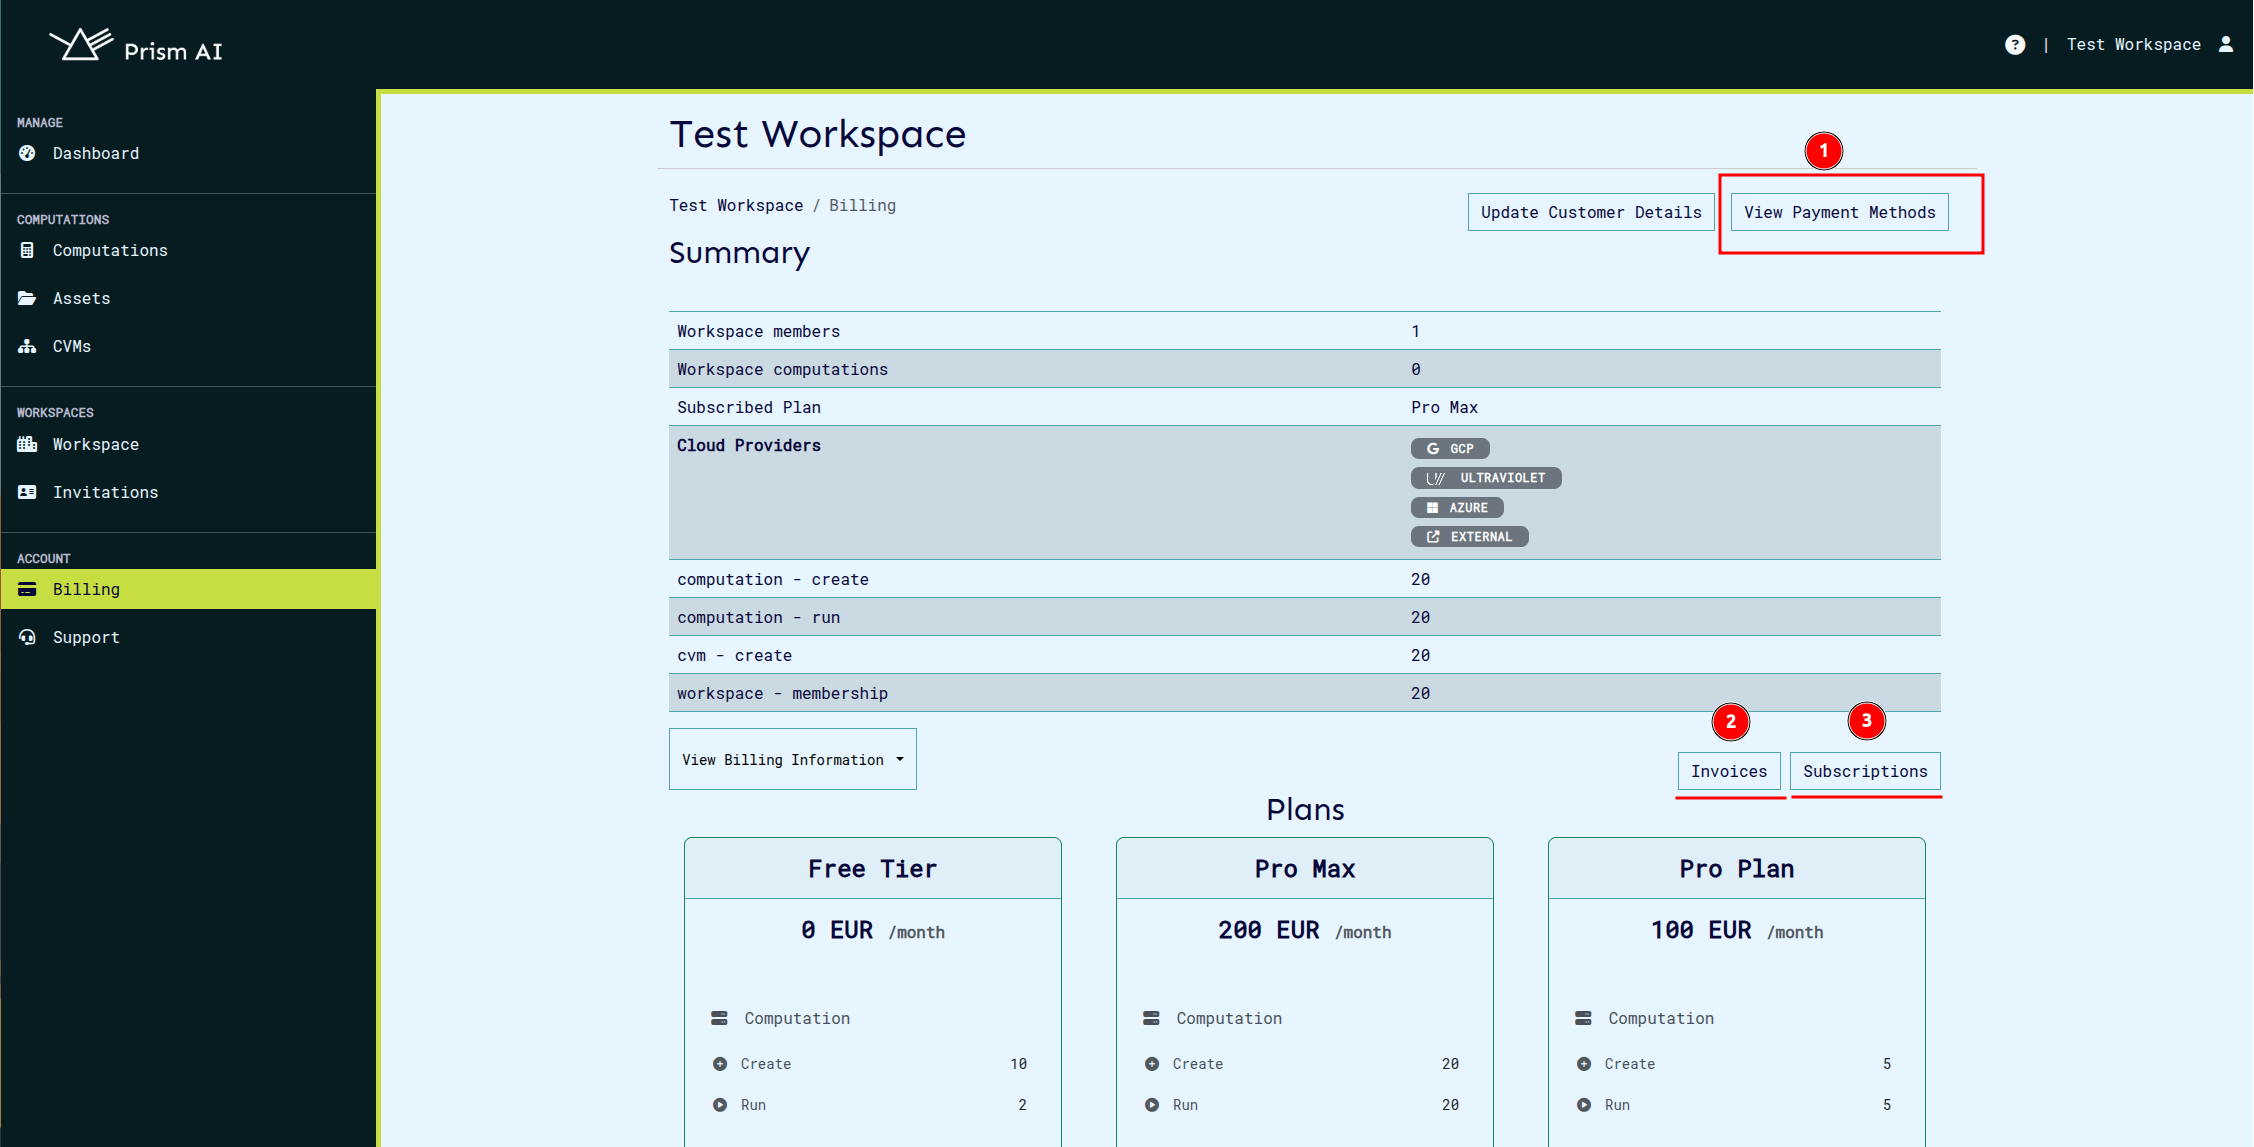
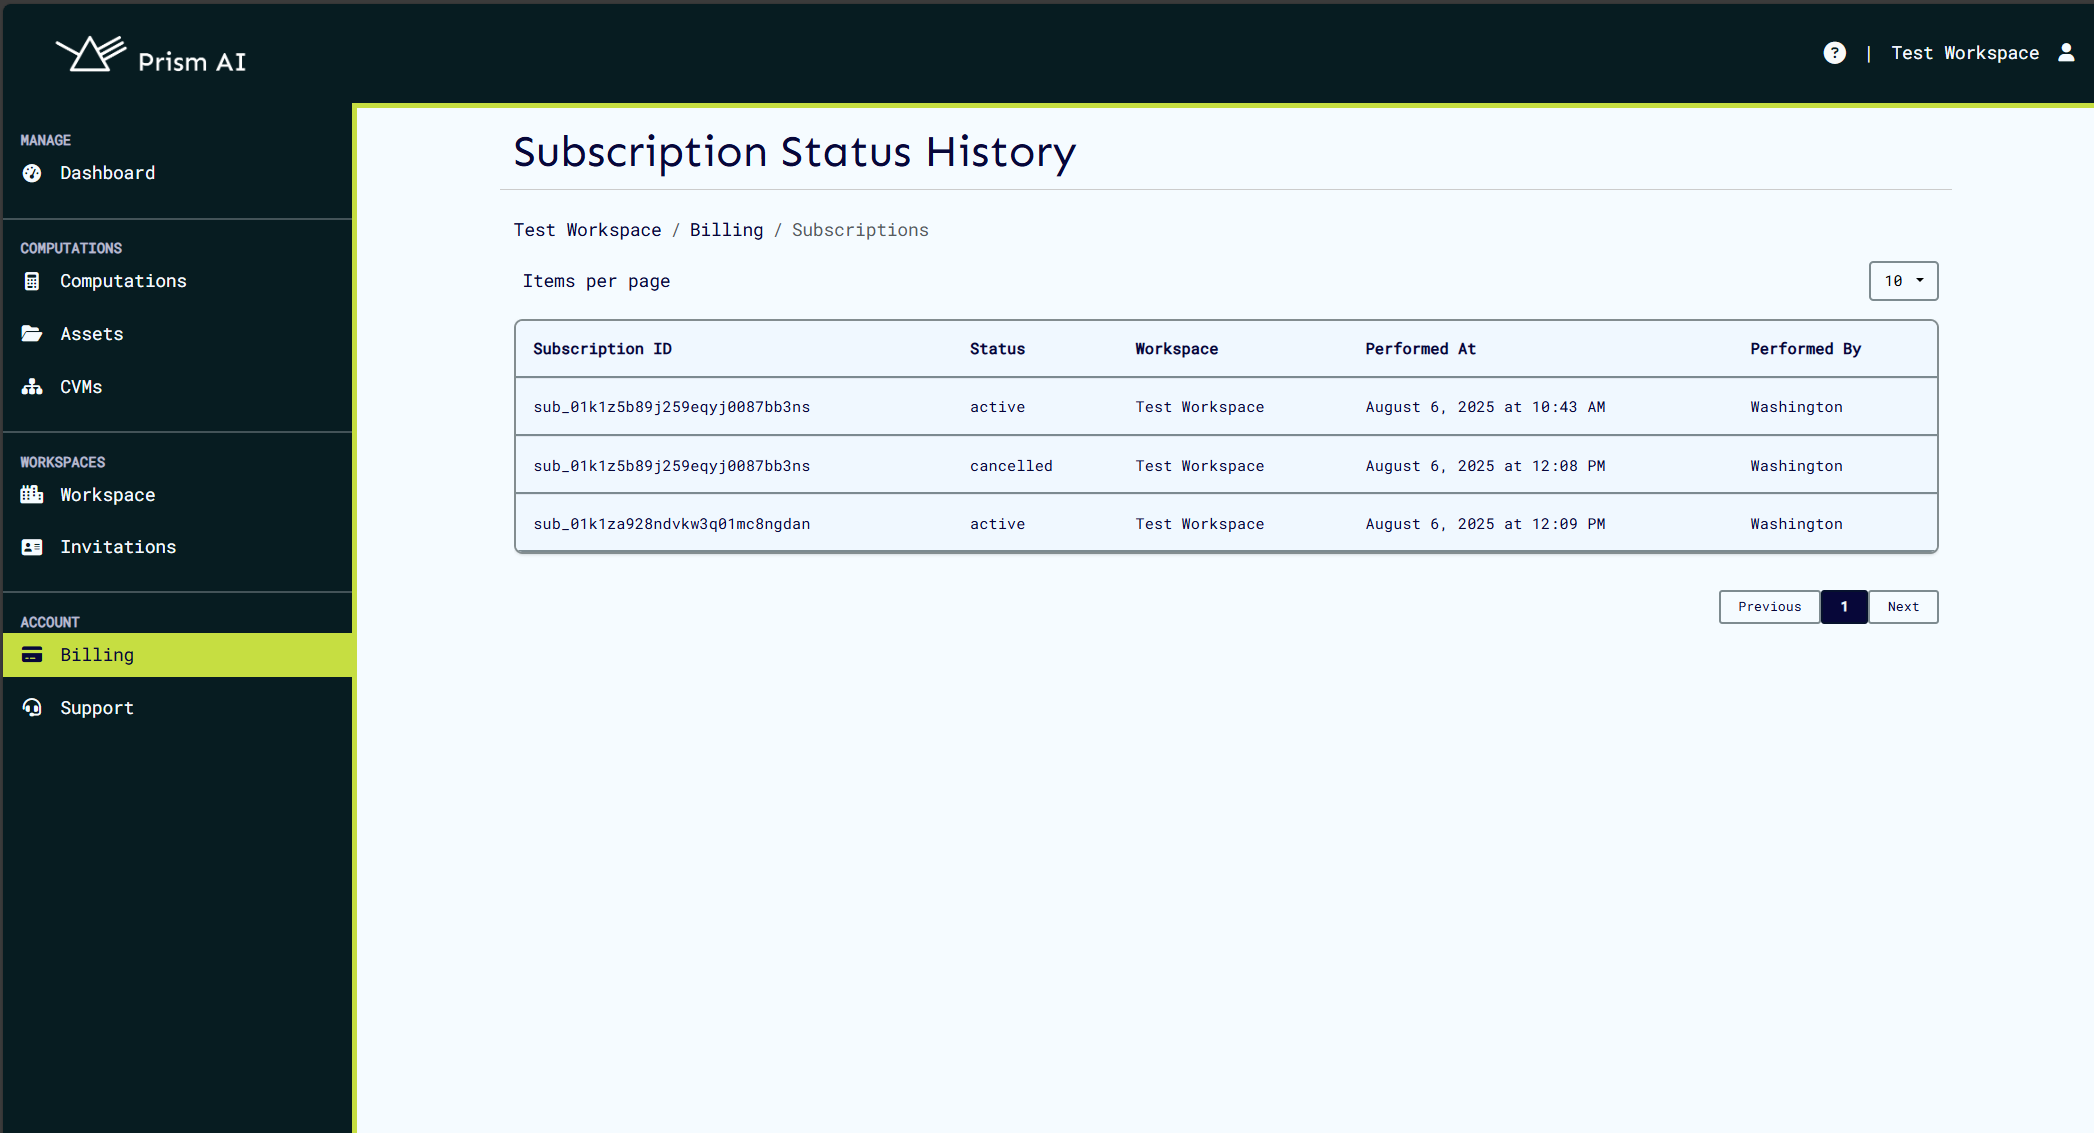
PD-105 - Update billing docs (#112)
* update billing docs

* lint architecture.md

---------

diff --git a/docs/architecture.md b/docs/architecture.md
@@ -20,27 +20,27 @@ Prism operates as a cloud-native platform that orchestrates confidential computa
 
 ### Prism Cloud Services
 
-| Service | Description | Key Responsibilities |
-|---------|-------------|---------------------|
-| **Auth** | Authentication and authorization management | - Policy enforcement for backends, certs, and computations<br />- Role-based access control<br />- API token management |
-| **Users** | User identity and workspace membership | - User registration and authentication<br />- Workspace association and roles<br />- Integration with [SuperMQ users](https://docs.supermq.abstractmachines.fr/architecture) service |
-| **Computations** | Computation lifecycle management | - Computation definition and metadata<br />- Participant coordination<br />- Execution orchestration and monitoring |
-| **Backends** | TEE infrastructure management | - CVM provisioning and lifecycle<br />- Connection to CocosAI agents<br />- Multi-cloud and on-premise support |
-| **Certs** | Certificate Authority services | - mTLS certificate issuance and management<br />- Certificate revocation and renewal<br />- OCSP endpoint for certificate validation |
-| **Billing** | Resource usage and payment management | - Usage tracking and billing<br />- Resource access control based on plans<br />- Multi-tenant cost allocation |
-| **Workspaces** | Tenant isolation and resource organization | - Domain separation and access control<br />- Resource grouping and management |
-| **User Interface** | Web-based platform access | - Visual interface for all platform operations |
+| Service            | Description                                 | Key Responsibilities                                                                                                                                                                 |
+| ------------------ | ------------------------------------------- | ------------------------------------------------------------------------------------------------------------------------------------------------------------------------------------ |
+| **Auth**           | Authentication and authorization management | - Policy enforcement for backends, certs, and computations<br />- Role-based access control<br />- API token management                                                              |
+| **Users**          | User identity and workspace membership      | - User registration and authentication<br />- Workspace association and roles<br />- Integration with [SuperMQ users](https://docs.supermq.abstractmachines.fr/architecture) service |
+| **Computations**   | Computation lifecycle management            | - Computation definition and metadata<br />- Participant coordination<br />- Execution orchestration and monitoring                                                                  |
+| **Backends**       | TEE infrastructure management               | - CVM provisioning and lifecycle<br />- Connection to CocosAI agents<br />- Multi-cloud and on-premise support                                                                       |
+| **Certs**          | Certificate Authority services              | - mTLS certificate issuance and management<br />- Certificate revocation and renewal<br />- OCSP endpoint for certificate validation                                                 |
+| **Billing**        | Resource usage and payment management       | - Usage tracking and billing<br />- Resource access control based on plans<br />- Multi-tenant cost allocation                                                                       |
+| **Workspaces**     | Tenant isolation and resource organization  | - Domain separation and access control<br />- Resource grouping and management                                                                                                       |
+| **User Interface** | Web-based platform access                   | - Visual interface for all platform operations                                                                                                                                       |
 
 ### CocosAI TEE Runtime Components
 
 Prism integrates with CocosAI components that run on TEE-enabled hardware:
 
-| Component | Location | Description |
-|-----------|----------|-------------|
-| **Manager** | TEE Host | - CVM provisioning and lifecycle management<br />- IGVM/OVMF firmware configuration<br />- TEE monitoring and secure destruction |
-| **Agent** | Inside CVM/TEE | - Computation execution coordination<br />- Secure data and algorithm ingestion<br />- Remote attestation report generation<br />- Secure result extraction |
-| **EOS** | Inside CVM/TEE | - Lightweight Linux distribution (Buildroot-based)<br />- Minimal attack surface<br />- Container runtime for workloads |
-| **CLI** | Client/Admin | - Administrative interface to TEE operations<br />- Attestation verification<br />- Algorithm and data provisioning |
+| Component   | Location       | Description                                                                                                                                                 |
+| ----------- | -------------- | ----------------------------------------------------------------------------------------------------------------------------------------------------------- |
+| **Manager** | TEE Host       | - CVM provisioning and lifecycle management<br />- IGVM/OVMF firmware configuration<br />- TEE monitoring and secure destruction                            |
+| **Agent**   | Inside CVM/TEE | - Computation execution coordination<br />- Secure data and algorithm ingestion<br />- Remote attestation report generation<br />- Secure result extraction |
+| **EOS**     | Inside CVM/TEE | - Lightweight Linux distribution (Buildroot-based)<br />- Minimal attack surface<br />- Container runtime for workloads                                     |
+| **CLI**     | Client/Admin   | - Administrative interface to TEE operations<br />- Attestation verification<br />- Algorithm and data provisioning                                         |
 
 ## Data Flow and Interaction Patterns
 

diff --git a/docs/billing.md b/docs/billing.md
@@ -19,7 +19,7 @@ To set up a billing account, follow these steps:
 
 ![alt text](img/billing/update_customer_button.png)
 
-4. This will open a form where you can enter your billing details. Fill in the required fields such as name, email, and address.
+4. This will open a form where you can enter your billing details. Fill in the required fields such as name, email, and address. All fields are compulsory, including the second address line.
 
 ![alt text](img/billing/update_customer_modal.png)
 
@@ -43,15 +43,19 @@ To set up a billing account, follow these steps:
 
 10. If you ever need to change your billing details or update your payment method, you can return to the billing section and click on the "Update Customer Details" button again.
 
-## Viewing Billing History
+## Viewing Subscription Status History
 
-Billing history can be viewed in the billing section. This includes details of past transactions, invoices, and payment methods used.
+Past records of the current workspace's status can be found on the subscription status history page, which can be accessed when the 'Subscription History' button is clicked on the billing page:
+
+![alt text](img/billing/billing_history_button.png)
+
+The subsequent status history page will be opened where all information about the status changes of the subscription will be shown:
 
 ![alt text](img/billing/billing_history.png)
 
 ### Subscription Management
 
-To manage your subscription, go to the billing section and click on the "Manage Subscription" button. From there, you can view your current subscription, pause or resume it, and cancel if needed.
+To manage your subscription, go to the billing section and click on the "Current Subscription" button. From there, you can view your current subscription, pause or resume it, and cancel if needed.
 
 ![alt text](img/billing/manage_subscription.png)
 
@@ -80,12 +84,6 @@ A list of unpaid invoices will be displayed on the workspaces page prior to logg
 A sample CVM invoice is shown below.
 
 ![alt text](img/billing/sample_cvm_invoice.png)
-
-### Payment Methods
-
-To manage your payment methods, go to the billing section and click on the "View Payment Methods" button. Here you can view and remove any payment methods you no longer wish to use.
-
-![alt text](img/billing/payment_methods.png)
 
 ### Audit Logs
 
